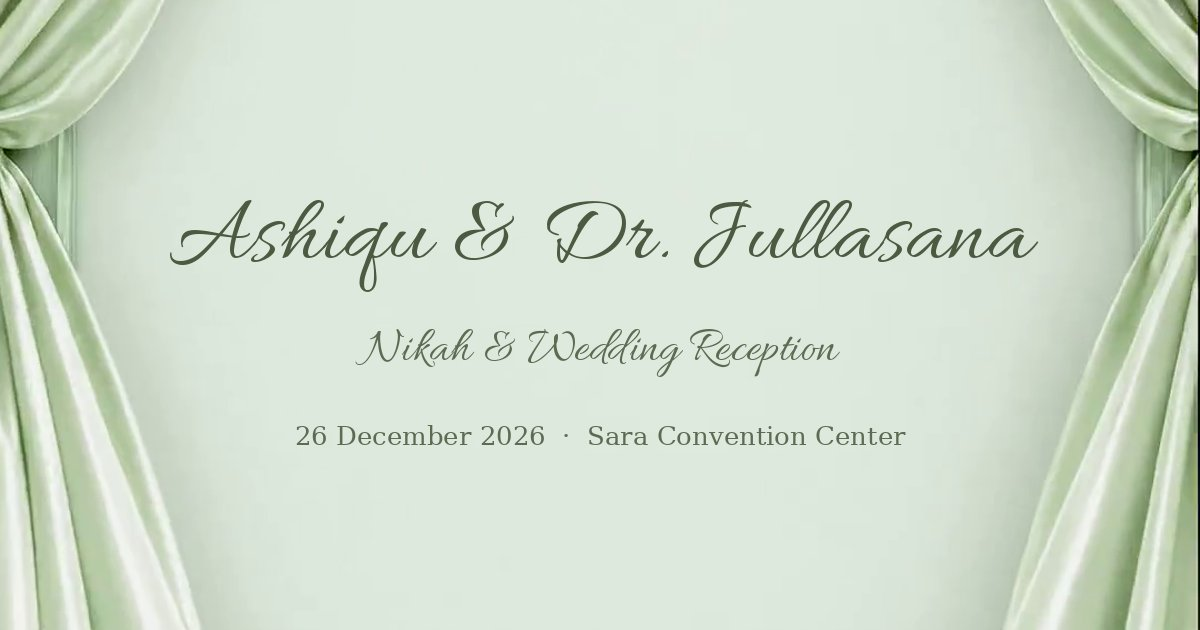
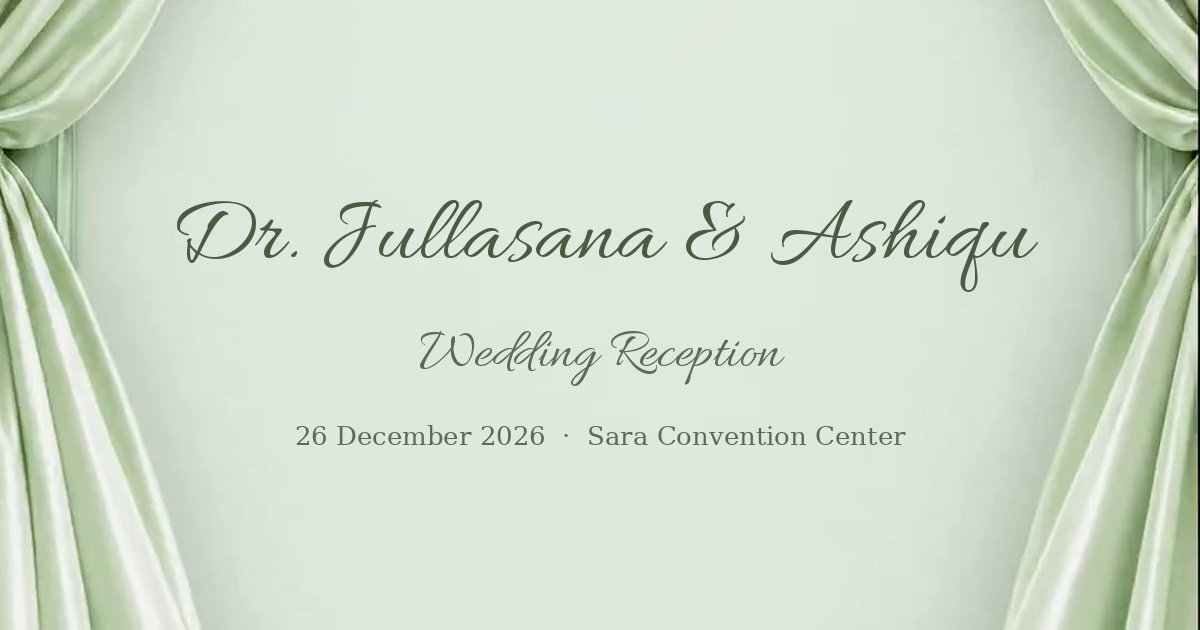
first commit

Changed region(s): [[0.1233, 0.3016, 0.8633, 0.4524], [0.3083, 0.5127, 0.7092, 0.6032]]

diff --git a/index.html b/index.html
@@ -4,31 +4,31 @@
 <head>
   <meta charset="UTF-8">
   <meta name="viewport" content="width=device-width, initial-scale=1, viewport-fit=cover">
-  <title>Ashiqu &amp; Dr. Jullasana — Wedding Invitation | 26 December 2026</title>
+  <title>Dr. Jullasana &amp; Ashiqu — Wedding Invitation | 26 December 2026</title>
   <meta name="description"
-    content="With Allah's blessing, together with their families, Ashiqu &amp; Dr. Jullasana invite you to their Nikah and Wedding Reception on Saturday, 26 December 2026, 11:00 AM – 2:00 PM at Sara Convention Center.">
+    content="With Allah's blessing, together with their families, Dr. Jullasana &amp; Ashiqu invite you to their Wedding Reception on Saturday, 26 December 2026, 11:00 AM – 2:00 PM at Sara Convention Center.">
   <link rel="canonical" href="https://ashiqu-jullasana.vercel.app/">
 
   <!-- Open Graph -->
   <meta property="og:type" content="website">
-  <meta property="og:site_name" content="Ashiqu &amp; Dr. Jullasana">
-  <meta property="og:title" content="Ashiqu &amp; Dr. Jullasana — Wedding Invitation">
+  <meta property="og:site_name" content="Dr. Jullasana &amp; Ashiqu">
+  <meta property="og:title" content="Dr. Jullasana &amp; Ashiqu — Wedding Invitation">
   <meta property="og:description"
-    content="Nikah and Wedding Reception — Saturday, 26 December 2026, 11:00 AM – 2:00 PM · Sara Convention Center.">
+    content="Wedding Reception — Saturday, 26 December 2026, 11:00 AM – 2:00 PM · Sara Convention Center.">
   <meta property="og:image" content="https://ashiqu-jullasana.vercel.app/og.jpg">
   <meta property="og:image:secure_url" content="https://ashiqu-jullasana.vercel.app/og.jpg">
   <meta property="og:image:type" content="image/jpeg">
   <meta property="og:image:width" content="1200">
   <meta property="og:image:height" content="630">
-  <meta property="og:image:alt" content="Ashiqu &amp; Dr. Jullasana — Wedding Invitation, 26 December 2026, Sara Convention Center">
+  <meta property="og:image:alt" content="Dr. Jullasana &amp; Ashiqu — Wedding Invitation, 26 December 2026, Sara Convention Center">
   <meta property="og:url" content="https://ashiqu-jullasana.vercel.app/">
 
   <!-- Twitter -->
   <meta name="twitter:card" content="summary_large_image">
-  <meta name="twitter:title" content="Ashiqu &amp; Dr. Jullasana — Wedding Invitation">
+  <meta name="twitter:title" content="Dr. Jullasana &amp; Ashiqu — Wedding Invitation">
   <meta name="twitter:description" content="Saturday, 26 December 2026 · 11:00 AM – 2:00 PM · Sara Convention Center">
   <meta name="twitter:image" content="https://ashiqu-jullasana.vercel.app/og.jpg">
-  <meta name="twitter:image:alt" content="Ashiqu &amp; Dr. Jullasana — Wedding Invitation, 26 December 2026, Sara Convention Center">
+  <meta name="twitter:image:alt" content="Dr. Jullasana &amp; Ashiqu — Wedding Invitation, 26 December 2026, Sara Convention Center">
 
   <link rel="icon" href="favicon/favicon.svg" type="image/svg+xml">
   <link rel="manifest" href="manifest.json">
@@ -49,7 +49,7 @@
 {
   "@context": "https://schema.org",
   "@type": "Event",
-  "name": "Nikah and Wedding Reception of Ashiqu & Dr. Jullasana",
+  "name": "Wedding Reception of Dr. Jullasana & Ashiqu",
   "startDate": "2026-12-26T11:00:00+05:30",
   "endDate": "2026-12-26T14:00:00+05:30",
   "eventAttendanceMode": "https://schema.org/OfflineEventAttendanceMode",
@@ -59,10 +59,10 @@
     "name": "Sara Convention Center"
   },
   "image": ["https://ashiqu-jullasana.vercel.app/og.jpg"],
-  "description": "With Allah's blessing, together with their families, Ashiqu & Dr. Jullasana invite you to their Nikah and Wedding Reception.",
+  "description": "With Allah's blessing, together with their families, Dr. Jullasana & Ashiqu invite you to their Wedding Reception.",
   "performer": [
-    { "@type": "Person", "name": "Ashiqu" },
-    { "@type": "Person", "name": "Dr. Jullasana" }
+    { "@type": "Person", "name": "Dr. Jullasana" },
+    { "@type": "Person", "name": "Ashiqu" }
   ]
 }
 </script>
@@ -79,7 +79,7 @@
   <div id="intro">
     <video id="v" src="assets/video/opening.mp4" poster="assets/img/poster.jpg" muted playsinline preload="auto"></video>
     <button id="open" type="button" aria-label="Open invitation">
-      <span class="seal"><b class="script">A<em>&amp;</em>J</b></span>
+      <span class="seal"><b class="script">J<em>&amp;</em>A</b></span>
       <span class="lbl">Open Invitation</span>
     </button>
   </div>
@@ -100,16 +100,16 @@
   <!-- ============================== COVER ================================ -->
   <header class="cover" id="top">
     <div class="cover__frame">
-      <img src="assets/img/cover-bg.jpg" alt="Ashiqu &amp; Dr. Jullasana — Wedding invitation" class="cover__bg">
+      <img src="assets/img/cover-bg.jpg" alt="Dr. Jullasana &amp; Ashiqu — Wedding invitation" class="cover__bg">
       <div class="cover__content">
         <p class="cover__bismillah" dir="rtl" lang="ar">بِسْمِ اللَّهِ الرَّحْمَٰنِ الرَّحِيمِ</p>
         <p class="cover__translation">With Allah's blessing &amp;<br>together with their families</p>
         <h1 class="cover__names">
-          <span class="n1">Ashiqu</span>
+          <span class="n1">Dr. Jullasana</span>
           <span class="amp">&amp;</span>
-          <span class="n2">Dr. Jullasana</span>
+          <span class="n2">Ashiqu</span>
         </h1>
-        <p class="cover__tagline">invite you to their<br>Nikah &amp; Wedding Reception</p>
+        <p class="cover__tagline">invite you to their<br>Wedding Reception</p>
         <p class="cover__date">26 · 12 · 2026</p>
       </div>
       <a class="cover__scroll" href="#countdown" aria-label="Scroll down"><span>Scroll</span>
@@ -191,8 +191,8 @@
           <p>Every blessing begins with the will of Allah. In His wisdom, two hearts are joined, and with gratitude we
             begin a new chapter in life — one built on faith, patience, and mercy.</p>
           <p>Held in the prayers of our families, we step into married life with hope, and we would be honoured to have
-            you beside us as we celebrate the Nikah and Wedding Reception, In Sha Allah.</p>
-          <p class="story__signature">Ashiqu &amp;<br>Dr. Jullasana</p>
+            you beside us as we celebrate the Wedding Reception, In Sha Allah.</p>
+          <p class="story__signature">Dr. Jullasana &amp;<br>Ashiqu</p>
         </div>
       </div>
     </section>
@@ -211,6 +211,41 @@
         </div>
 
         <div class="couple-cards reveal" data-delay="1">
+
+          <!-- ── Bride Card ── (replace images/bride.svg with a photo, e.g. images/bride.jpg, and update src) -->
+          <article class="couple-card couple-card--bride" aria-label="The Bride">
+            <div class="couple-card__floral" aria-hidden="true">
+              <svg viewBox="0 0 80 80" xmlns="http://www.w3.org/2000/svg">
+                <g fill="var(--color-gold)" opacity="0.35">
+                  <ellipse cx="40" cy="18" rx="10" ry="18" />
+                  <ellipse cx="40" cy="18" rx="10" ry="18" transform="rotate(72 40 40)" />
+                  <ellipse cx="40" cy="18" rx="10" ry="18" transform="rotate(144 40 40)" />
+                  <ellipse cx="40" cy="18" rx="10" ry="18" transform="rotate(216 40 40)" />
+                  <ellipse cx="40" cy="18" rx="10" ry="18" transform="rotate(288 40 40)" />
+                  <circle cx="40" cy="40" r="8" fill="var(--color-gold-light)" />
+                </g>
+              </svg>
+            </div>
+
+            <div class="couple-card__body">
+              <p class="couple-card__role">The Bride</p>
+              <h3 class="couple-card__name">Dr. Jullasana</h3>
+              <div class="couple-card__divider" aria-hidden="true"></div>
+              <p class="couple-card__parents-label">Granddaughter of</p>
+              <p class="couple-card__parents">Mr. C. Hassan Haji (Harafa) &amp; Mrs. Fathima</p>
+              <p class="couple-card__parents">(Late) Kalathil Kunjiman Haji &amp; Mrs. Sulaikha, Vallapuzha</p>
+
+            </div>
+
+            <div class="couple-card__ornament" aria-hidden="true">❋</div>
+          </article>
+
+          <!-- ── Centre connector ── -->
+          <div class="couple-connector" aria-hidden="true">
+            <span class="couple-connector__line"></span>
+            <span class="couple-connector__glyph">و</span>
+            <span class="couple-connector__line"></span>
+          </div>
 
           <!-- ── Groom Card ── (replace images/groom.svg with a photo, e.g. images/groom.jpg, and update src) -->
           <article class="couple-card couple-card--groom" aria-label="The Groom">
@@ -233,39 +268,8 @@
               <div class="couple-card__divider" aria-hidden="true"></div>
 
               <p class="couple-card__parents-label">Son of</p>
-              <p class="couple-card__parents">Mr. Abdul Nasir Ahsani<span class="couple-card__parent-amp">&amp;</span>Mrs. Labeeba</p>
-            </div>
-
-            <div class="couple-card__ornament" aria-hidden="true">❋</div>
-          </article>
-
-          <!-- ── Centre connector ── -->
-          <div class="couple-connector" aria-hidden="true">
-            <span class="couple-connector__line"></span>
-            <span class="couple-connector__glyph">و</span>
-            <span class="couple-connector__line"></span>
-          </div>
-
-          <!-- ── Bride Card ── (replace images/bride.svg with a photo, e.g. images/bride.jpg, and update src) -->
-          <article class="couple-card couple-card--bride" aria-label="The Bride">
-            <div class="couple-card__floral" aria-hidden="true">
-              <svg viewBox="0 0 80 80" xmlns="http://www.w3.org/2000/svg">
-                <g fill="var(--color-gold)" opacity="0.35">
-                  <ellipse cx="40" cy="18" rx="10" ry="18" />
-                  <ellipse cx="40" cy="18" rx="10" ry="18" transform="rotate(72 40 40)" />
-                  <ellipse cx="40" cy="18" rx="10" ry="18" transform="rotate(144 40 40)" />
-                  <ellipse cx="40" cy="18" rx="10" ry="18" transform="rotate(216 40 40)" />
-                  <ellipse cx="40" cy="18" rx="10" ry="18" transform="rotate(288 40 40)" />
-                  <circle cx="40" cy="40" r="8" fill="var(--color-gold-light)" />
-                </g>
-              </svg>
-            </div>
-
-            <div class="couple-card__body">
-              <p class="couple-card__role">The Bride</p>
-              <h3 class="couple-card__name">Dr. Jullasana</h3>
-              <div class="couple-card__divider" aria-hidden="true"></div>
-
+              <p class="couple-card__parents">Mr. Abdul Nasir Ahsani &amp; Mrs. Labeeba</p>
+              <p class="couple-card__address">Thumbakkuzhiyil (H), Vazhampuram P.O.</p>
             </div>
 
             <div class="couple-card__ornament" aria-hidden="true">❋</div>
@@ -286,8 +290,36 @@
               class="divider__line"></span></div>
         </div>
 
-        <!-- Groom's family -->
+        <!-- Hosts (bride's family) -->
         <div class="regards-card regards-card--family reveal" data-delay="1">
+          <div class="regards-card__corner regards-card__corner--tl" aria-hidden="true">
+            <svg viewBox="0 0 40 40" fill="none" xmlns="http://www.w3.org/2000/svg">
+              <path d="M4 36V12C4 7.58172 7.58172 4 12 4H36" stroke="var(--color-gold)" stroke-width="1.2" stroke-linecap="round"/>
+              <circle cx="4" cy="36" r="2" fill="var(--color-gold)"/>
+              <circle cx="36" cy="4" r="2" fill="var(--color-gold)"/>
+            </svg>
+          </div>
+          <div class="regards-card__corner regards-card__corner--br" aria-hidden="true">
+            <svg viewBox="0 0 40 40" fill="none" xmlns="http://www.w3.org/2000/svg">
+              <path d="M36 4V28C36 32.4183 32.4183 36 28 36H4" stroke="var(--color-gold)" stroke-width="1.2" stroke-linecap="round"/>
+              <circle cx="36" cy="4" r="2" fill="var(--color-gold)"/>
+              <circle cx="4" cy="36" r="2" fill="var(--color-gold)"/>
+            </svg>
+          </div>
+
+          <p class="regards-card__role">With the Love &amp; Prayers of</p>
+          <h3 class="regards-card__names regards-card__names--stack">
+            <span>Mr. Rasheed</span>
+            <span class="regards-card__amp">&amp;</span>
+            <span>Mrs. Fousiya</span>
+          </h3>
+          <div class="regards-card__divider" aria-hidden="true"></div>
+          <p class="regards-card__note regards-card__address">Cheerakkodan, Harafa<br>Chirakkalpadi, Thrikkalloor P.O.<br><a href="tel:+919947751035">Ph: 9947751035</a></p>
+          <div class="regards-card__ornament" aria-hidden="true">❋</div>
+        </div>
+
+        <!-- Groom's family -->
+        <div class="regards-card regards-card--family reveal" data-delay="2">
           <div class="regards-card__corner regards-card__corner--tl" aria-hidden="true">
             <svg viewBox="0 0 40 40" fill="none" xmlns="http://www.w3.org/2000/svg">
               <path d="M4 36V12C4 7.58172 7.58172 4 12 4H36" stroke="var(--color-gold)" stroke-width="1.2" stroke-linecap="round"/>
@@ -310,12 +342,12 @@
             <span>Mrs. Labeeba</span>
           </h3>
           <div class="regards-card__divider" aria-hidden="true"></div>
-          <p class="regards-card__note regards-card__address">Thumbakkuzhiyil (H)<br>Vazhamburam P.O.</p>
+          <p class="regards-card__note regards-card__address">Thumbakkuzhiyil (H)<br>Vazhampuram P.O.</p>
           <div class="regards-card__ornament" aria-hidden="true">❋</div>
         </div>
 
         <!-- Special compliments -->
-        <div class="regards-card reveal" data-delay="2">
+        <div class="regards-card reveal" data-delay="3">
           <div class="regards-card__corner regards-card__corner--tl" aria-hidden="true">
             <svg viewBox="0 0 40 40" fill="none" xmlns="http://www.w3.org/2000/svg">
               <path d="M4 36V12C4 7.58172 7.58172 4 12 4H36" stroke="var(--color-gold)" stroke-width="1.2" stroke-linecap="round"/>
@@ -332,7 +364,7 @@
           </div>
 
           <p class="regards-card__role">Special Compliments From</p>
-          <h3 class="regards-card__names">Jefrin</h3>
+          <h3 class="regards-card__names regards-card__names--stack"><span>Jefrein</span><span class="regards-card__amp">&amp;</span><span>Harafa Group of Company</span></h3>
           <div class="regards-card__divider" aria-hidden="true"></div>
           <p class="regards-card__note">Wishing you a blessed and joyous lifetime together</p>
           <div class="regards-card__ornament" aria-hidden="true">❋</div>
@@ -358,7 +390,7 @@
             </div>
             <div class="timeline__content">
               <p class="timeline__time">11:00 AM – 2:00 PM</p>
-              <h3 class="timeline__title">Nikah &amp; Wedding Reception</h3>
+              <h3 class="timeline__title">Wedding Reception</h3>
               <p class="timeline__desc">Saturday, 26 December 2026<br><span class="timeline__hijri">16 Rajab 1448</span></p>
               <p class="timeline__desc timeline__venue">Sara Convention Center</p>
             </div>
@@ -374,7 +406,7 @@
         <div class="section-head reveal">
           <p class="eyebrow">Join Us At</p>
           <h2 class="section-title">Sara Convention Center</h2>
-          <p class="section-sub">Nikah &amp; Wedding Reception</p>
+          <p class="section-sub">Wedding Reception</p>
           <div class="divider"><span class="divider__line"></span><span class="divider__glyph">✦</span><span
               class="divider__line"></span></div>
         </div>
@@ -666,7 +698,7 @@
       <div class="divider divider--footer"><span class="divider__line"></span><span class="divider__glyph">❋</span><span
           class="divider__line"></span></div>
       <p class="footer__arabic" dir="rtl" lang="ar">بِسْمِ اللَّهِ الرَّحْمَٰنِ الرَّحِيمِ</p>
-      <p class="footer__names">Ashiqu &amp;<br>Dr. Jullasana</p>
+      <p class="footer__names">Dr. Jullasana &amp;<br>Ashiqu</p>
       <p class="footer__note">Saturday, 26 December 2026 · 11:00 AM – 2:00 PM · Sara Convention Center</p>
       <p class="footer__note">16 Rajab 1448</p>
       <p class="footer__note">WITH ALLAH'S BLESSING · TOGETHER WITH THEIR FAMILIES</p>

diff --git a/css/opening.css b/css/opening.css
@@ -26,7 +26,7 @@ body.lock{overflow:hidden;height:100%}
 .cover__translation{font:italic 500 14px/1.55 var(--font-serif);color:var(--color-text-light);margin-bottom:22px}
 .cover__names{font-family:var(--font-script);font-weight:400;font-size:56px;line-height:.95;display:flex;flex-direction:column;align-items:center;margin:6px 0 4px;color:var(--color-maroon);text-shadow:0 1px 0 rgba(255,255,255,.5)}
 .cover__names .amp{font-size:34px;color:var(--color-gold-dark);line-height:1.1;margin:2px 0}
-.cover__names .n2{font-size:50px;white-space:nowrap}
+.cover__names .n1{font-size:50px;white-space:nowrap}
 .cover__tagline{font:italic 500 15px/1.6 var(--font-serif);color:var(--color-text-light);margin-top:20px}
 .cover__date{font:500 12px var(--font-display);letter-spacing:.3em;color:var(--color-gold-dark);margin-top:20px;padding-left:.3em}
 .cover__content>*{opacity:0;transform:translateY(18px);transition:opacity 1.2s var(--ease-luxury),transform 1.2s var(--ease-luxury)}
@@ -59,8 +59,17 @@ body.lock{overflow:hidden;height:100%}
 .venue .section-title{font-size:clamp(2.8rem,8vw,4rem)}
 .badge__day{font-family:var(--font-script)}
 
-@media(max-width:380px){.cover__names{font-size:50px}.cover__names .n2{font-size:44px}}
+@media(max-width:380px){.cover__names{font-size:50px}.cover__names .n1{font-size:44px}.cover__names .n2{font-size:50px}}
 @media(prefers-reduced-motion:reduce){.cover__content>*{transition:none;opacity:1;transform:none}#pt{display:none}.seal:before,.seal:after,.cover__scroll{animation:none}}
 .regards-card--family .regards-card__names{font-size:clamp(2rem,7vw,2.6rem)!important}
 .regards-card{margin-bottom:var(--sp-4)}
 .story__signature{line-height:1.15}
+.couple-card__address{font-size:.85rem;opacity:.8;margin-top:6px;color:var(--color-gold-light)}
+.couple-card__parents-label{margin-top:4px}
+.couple-card__parents+.couple-card__parents{margin-top:6px}
+.regards-card__address a{color:inherit;text-decoration:none;border-bottom:1px solid rgba(227,205,155,.5)}
+.regards-card--family .regards-card__names span:not(.regards-card__amp){display:block}
+.cover__names .n2{font-size:56px;line-height:.95}
+.footer__names{font-size:clamp(2.6rem,8vw,3.6rem)!important}
+.couple-card__parents{text-wrap:balance;line-height:1.5}
+.cover__names .n1{font-size:48px}

diff --git a/README.md b/README.md
@@ -1,4 +1,4 @@
-# Ashiqu & Dr. Jullasana — Wedding Invitation Website
+# Dr. Jullasana & Ashiqu — Wedding Invitation Website
 
 Groom-side invitation. Lightweight, dependency-free (HTML5 + CSS3 + vanilla JS).
 
@@ -7,7 +7,7 @@ Groom-side invitation. Lightweight, dependency-free (HTML5 + CSS3 + vanilla JS).
 - **Groom:** Ashiqu — son of Mr. Abdul Nasir Ahsani & Mrs. Labeeba, Thumbakkuzhiyil (H), Vazhamburam P.O.
 - **Bride:** Dr. Jullasana
 - **Special compliments:** Jefrin
-- **Event:** Nikah and Wedding Reception
+- **Event:** Wedding Reception
 - **Date / time:** Saturday, 26 December 2026 · 11:00 AM – 2:00 PM (IST, Asia/Kolkata) · 16 Rajab 1448
 - **Venue:** Sara Convention Center
 
